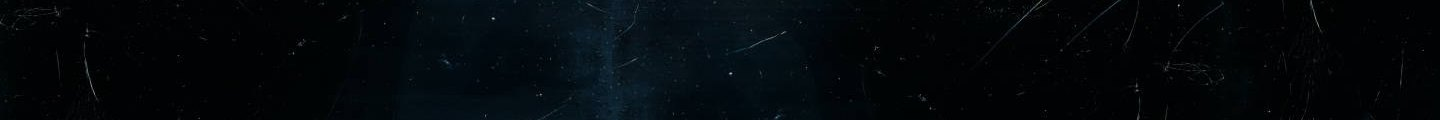
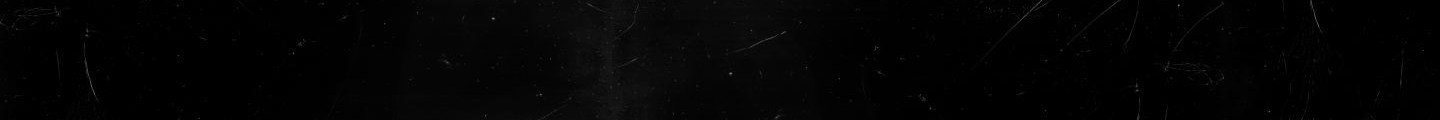
wear textures, black nav glass, ebony desk, smoother visualizer, realistic eq, cover colors via proxy, optimistic skip, card height match, audio processing switch

Changed region(s): [[0.375, 0.225, 0.4688, 1.0], [0.4062, 0.0, 0.4375, 0.175]]

diff --git a/babsonsound-web/app/hardware.css b/babsonsound-web/app/hardware.css
@@ -320,25 +320,25 @@ body:has(.hw-stage) {
 /* ── Dark mode top bar: black, scratched glass (matches the mock-up) ───── */
 @media (prefers-color-scheme: dark) {
   :root:not([data-theme="light"]) .hw-bar {
-    background: #05070A url(/hw/navglass.jpg) center / 100% 100% !important;
+    background: #000 url(/hw/navglass.jpg) center / 100% 100% !important;
     -webkit-backdrop-filter: none; backdrop-filter: none;
     border-bottom: 1px solid rgba(250,246,236,.18) !important;
     box-shadow: 0 8px 18px rgba(24,26,18,.5), inset 0 1px 0 rgba(250,246,236,.2), inset 0 -1px 0 rgba(24,26,18,.6) !important;
   }
   :root:not([data-theme="light"]) .hw-bar::before {
     content: ''; position: absolute; inset: 0; pointer-events: none;  z-index: -1;
-    background: linear-gradient(112deg, rgba(250,246,236,.13) 0, rgba(250,246,236,.13) 22%, rgba(250,246,236,0) 34%), linear-gradient(rgba(250,246,236,.09), rgba(250,246,236,0) 50%);
+    background: linear-gradient(112deg, rgba(250,246,236,.07) 0, rgba(250,246,236,.07) 22%, rgba(250,246,236,0) 34%), linear-gradient(rgba(250,246,236,.04), rgba(250,246,236,0) 50%);
   }
 }
 :root[data-theme="dark"] .hw-bar {
-  background: #05070A url(/hw/navglass.jpg) center / 100% 100% !important;
+  background: #000 url(/hw/navglass.jpg) center / 100% 100% !important;
   -webkit-backdrop-filter: none; backdrop-filter: none;
   border-bottom: 1px solid rgba(250,246,236,.18) !important;
   box-shadow: 0 8px 18px rgba(24,26,18,.5), inset 0 1px 0 rgba(250,246,236,.2), inset 0 -1px 0 rgba(24,26,18,.6) !important;
 }
 :root[data-theme="dark"] .hw-bar::before {
   content: ''; position: absolute; inset: 0; pointer-events: none;  z-index: -1;
-  background: linear-gradient(112deg, rgba(250,246,236,.13) 0, rgba(250,246,236,.13) 22%, rgba(250,246,236,0) 34%), linear-gradient(rgba(250,246,236,.09), rgba(250,246,236,0) 50%);
+  background: linear-gradient(112deg, rgba(250,246,236,.07) 0, rgba(250,246,236,.07) 22%, rgba(250,246,236,0) 34%), linear-gradient(rgba(250,246,236,.04), rgba(250,246,236,0) 50%);
 }
 
 /* ── Full screen board ───────────────────────────────────────── */
